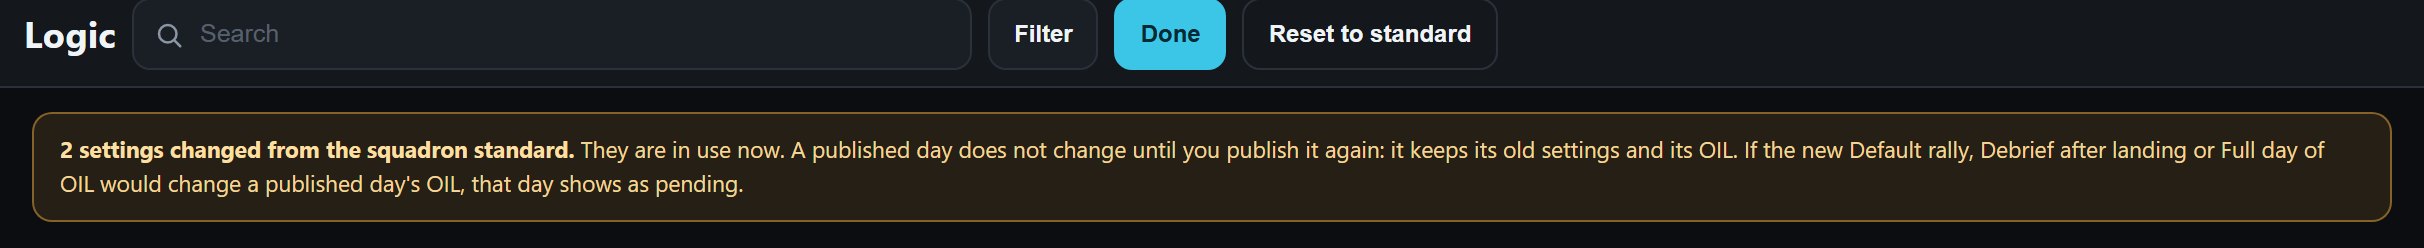
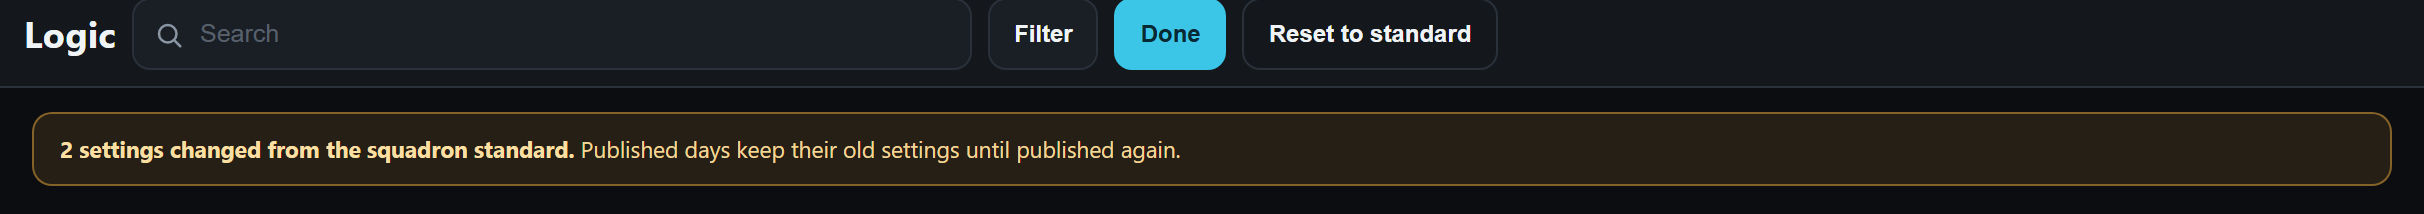
D2066: earned OIL's own store stays at the database step; D2067: the Logic note cut to one sentence, redrawn and put to him ([WARN-WORDS-STANDALONE])

diff --git a/raptor-port/docs/mock/2026-11-15-warn-words/page.html b/raptor-port/docs/mock/2026-11-15-warn-words/page.html
@@ -148,13 +148,13 @@ td.old{color:var(--muted)}
 <section id="logic">
 <h2>The Logic page's note under the changed-settings strip</h2>
 <p class="note">Same meaning, plainer order: first that a published day does not change until you publish it again, then when it shows as pending.</p>
-<div class="pair phone"><figure class="shot"><figcaption><span class="chip c-today">Today</span> <span class="kind">the real app</span></figcaption><a class="zoom" href="c-logic-today-phone.png"><img src="c-logic-today-phone.png" width="1206" height="528" style="max-width:min(100%, 402px)" alt="Today — the real app" loading="lazy"></a></figure><figure class="shot"><figcaption><span class="chip c-new">Proposed</span> <span class="kind">drawn on the real page</span></figcaption><a class="zoom" href="c-logic-proposed-phone.png"><img src="c-logic-proposed-phone.png" width="1206" height="528" style="max-width:min(100%, 402px)" alt="Proposed — drawn on the real page" loading="lazy"></a></figure></div>
+<div class="pair phone"><figure class="shot"><figcaption><span class="chip c-today">Today</span> <span class="kind">the real app</span></figcaption><a class="zoom" href="c-logic-today-phone.png"><img src="c-logic-today-phone.png" width="1206" height="528" style="max-width:min(100%, 402px)" alt="Today — the real app" loading="lazy"></a></figure><figure class="shot"><figcaption><span class="chip c-new">Proposed</span> <span class="kind">drawn on the real page</span></figcaption><a class="zoom" href="c-logic-proposed-phone.png"><img src="c-logic-proposed-phone.png" width="1206" height="372" style="max-width:min(100%, 402px)" alt="Proposed — drawn on the real page" loading="lazy"></a></figure></div>
 <ol class="words" style="list-style:none;padding:0;margin:0">
 <li class="w"><p class="t"><span class="k">Today</span> <b>2 settings changed from the squadron standard.</b> The schedule is checked against them now. A published day keeps the settings it was published under, and the OIL they gave it, until it is published again. If a change to Default rally, Debrief after landing or Full day of OIL would change that OIL, the day reads pending.</p>
 <p class="p"><span class="k">Proposed</span> <b>2 settings changed from the squadron standard.</b> They are in use now. A published day does not change until you publish it again: it keeps its old settings and its OIL. If the new Default rally, Debrief after landing or Full day of OIL would change a published day's OIL, that day shows as pending.</p></li>
 </ol>
 <p class="note">The two sentences that follow it where they apply are left whole: "A changed late cut-off moves the LATE marks at once, on published days too." and "Only an admin can change them."</p>
-<details class="desk"><summary>The same strip on a desktop</summary><div class="pair desktop"><figure class="shot"><figcaption><span class="chip c-today">Today</span> <span class="kind">the real app</span></figcaption><a class="zoom" href="c-logic-today-desktop.png"><img src="c-logic-today-desktop.png" width="2424" height="248" style="max-width:min(100%, 1000px)" alt="Today — the real app" loading="lazy"></a></figure><figure class="shot"><figcaption><span class="chip c-new">Proposed</span> <span class="kind">drawn</span></figcaption><a class="zoom" href="c-logic-proposed-desktop.png"><img src="c-logic-proposed-desktop.png" width="2424" height="248" style="max-width:min(100%, 1000px)" alt="Proposed — drawn" loading="lazy"></a></figure></div></details>
+<details class="desk"><summary>The same strip on a desktop</summary><div class="pair desktop"><figure class="shot"><figcaption><span class="chip c-today">Today</span> <span class="kind">the real app</span></figcaption><a class="zoom" href="c-logic-today-desktop.png"><img src="c-logic-today-desktop.png" width="2424" height="248" style="max-width:min(100%, 1000px)" alt="Today — the real app" loading="lazy"></a></figure><figure class="shot"><figcaption><span class="chip c-new">Proposed</span> <span class="kind">drawn</span></figcaption><a class="zoom" href="c-logic-proposed-desktop.png"><img src="c-logic-proposed-desktop.png" width="2424" height="214" style="max-width:min(100%, 1000px)" alt="Proposed — drawn" loading="lazy"></a></figure></div></details>
 </section>
 
 <section id="pending">

diff --git a/DECISIONS.md b/DECISIONS.md
@@ -85,9 +85,9 @@ ruling, or an explicit no. **Not** ordinary task instructions ("run the tests", 
 | Tracker | `.claude/rules/decisions/tracker.md` | when a Tracker file is read (its code, docs, scripts, evidence) | D1942, D1935, D1931, D1900, D1860, D1861, D1790, D1791, D1705, D1564, D1538, D1406, D1171, D1170, D1136, D1135, D1132, D1018, D1015, D1014, D1007, D1006, D1005, D1004, D1003, D1002, D992, D989, D988, D987, D986, D985, D984, D983, D982, D981, D980, D979, D924, D922, D899, D801, D566, D564, D560, D474, D464, D462, D463, D377, D376, D375, D374, D373, D372, D371, D370, D158, D157, D134, D132, D131, D130, D129, D128, D127, D126, D124, D123, D122, D121, D120, D64 |
 | People & accounts | `.claude/rules/decisions/people-accounts.md` | when an accounts, sign-in, Admin → Users, Quals, one-door or posting file is read (D390) | D1971, D1709, D1696, D1695, D1694, D1691, D1690, D1658, D1653, D1651, D1547, D1546, D1510, D1108, D1105, D1102, D1101, D1100, D1129, D1128, D1110, D993, D937, D935, D329, D328, D327, D326, D325, D323, D322, D321, D320, D310, D309, D308, D307, D306, D304, D303, D300, D299, D298, D297, D296, D295, D294, D293, D292, D290, D289, D288, D287, D286, D285, D284, D283, D282, D281, D280, D229, D227, D226, D225, D224, D223, D222, D221, D220, D219, D216, D215, D214, D213, D211, D204, D200, D218, D166, D165, D149 |
 | Leave War | `.claude/rules/decisions/leave-war.md` | when a Leave War file is read (its code, docs, e2e, evidence) | D2041, D2037, D2031, D2030, D2025, D2008, D2007, D2006, D1986, D1985, D1984, D1963, D1962, D1961, D1950, D1947, D1871, D1870, D1788, D1789, D1731, D1730, D1729, D1728, D1727, D1726, D1725, D1724, D1723, D1722, D1720, D1711, D1698, D1697, D1692, D1681, D1639, D1634, D1630, D1629, D1584, D1569, D1568, D1565, D1555, D1561, D1553, D1552, D1550, D1549, D1548, D1545, D1544, D1543, D1542, D1541, D1525, D1524, D1521, D1520, D1519, D1517, D1516, D1515, D1514, D1513, D1512, D1511, D1506, D1505, D1504, D1503, D1502, D1501, D1500, D1499, D1498, D1497, D1493, D1492, D1491, D1490, D1489, D1488, D1487, D1486, D1485, D1484, D1483, D1482, D1481, D1480, D1479, D1477, D1476, D1474, D1473, D1472, D1471, D1470, D1469, D1468, D1467, D1466, D1465, D1464, D1463, D1462, D1461, D1460, D1449, D1448, D1447, D1446, D1445, D1444, D1441, D1440, D1439, D1438, D1437, D1435, D1434, D1433, D1432, D1431, D1430, D1429, D1428, D1427, D1423, D1422, D1421, D1420, D1401, D1400, D1399, D1398, D1397, D1395, D1394, D1393, D1392, D1391, D1390, D1389, D1388, D1387, D1382, D1381, D1380, D1379, D1378, D1375, D1371, D1370, D1365, D1364, D1362, D1361, D1360, D1359, D1358, D1357, D1356, D1355, D1354, D1353, D1352, D1351, D1350, D1349, D1347, D1346, D1345, D1344, D1341, D1339, D1334, D1333, D1332, D1331, D1330, D1329, D1328, D1327, D1326, D1323, D1321, D1322, D1320, D1318, D1316, D1315, D1314, D1313, D1312, D1311, D1309, D1308, D1307, D1306, D1302, D1301, D1296, D1295, D1294, D1292, D1291, D1290, D1289, D1288, D1287, D1286, D1285, D1284, D1283, D1282, D1279, D1278, D1277, D1276, D1275, D1274, D1272, D1270, D1269, D1268, D1267, D1266, D1264, D1263, D1259, D1258, D1257, D1256, D1255, D1254, D1253, D1252, D1251, D1249, D1248, D1247, D1246, D1245, D1244, D1243, D1242, D1241, D1240, D1239, D1238, D1236, D1235, D1234, D1233, D1231, D1230, D1229, D1228, D1227, D1226, D1225, D1224, D1223, D1221, D1220, D1219, D1218, D1217, D1216, D1215, D1214, D1213, D1212, D1211, D1210, D1209, D1208, D1205, D1203, D1202, D1201, D1200, D1198, D1197, D1196, D1194, D1193, D1192, D1191, D1190, D1189, D1188, D1187, D1186, D1185, D1184, D1183, D1181, D1180, D1178, D1177, D1176, D1175, D1174, D1173, D1172, D1169, D1168, D1167, D1166, D1164, D1163, D1162, D1160, D1159, D1158, D1157, D1155, D1154, D1153, D1152, D1151, D1150, D1149, D1148, D1147, D1146, D1145, D1144, D1143, D1142, D1141, D1117, D1019, D1016, D1001, D1000, D998, D892, D891, D890, D883, D882, D881, D827, D823, D805, D679, D678, D677, D676, D674, D673, D670, D669, D461, D460, D418, D352, D335, D334, D333, D332, D331, D266, D265, D264, D262, D160, D159 |
-| Scheduler & amendments | `.claude/rules/decisions/scheduler.md` | when a scheduler, board, engine, amendment or storage file is read | D2065, D2064, D2063, D2062, D2061, D2060, D2059, D2058, D2055, D2054, D2053, D2052, D2051, D2050, D2049, D2048, D2047, D2046, D2045, D2044, D2026, D2014, D2009, D2010, D2011, D2012, D2013, D2015, D2016, D2017, D2018, D2019, D2020, D2021, D2022, D2024, D1983, D2005, D2004, D2003, D2002, D2001, D2000, D1999, D1994, D1998, D1997, D1996, D1995, D1993, D1992, D1991, D1990, D1989, D1988, D1944, D1936, D1890, D1800, D1780, D1781, D1782, D1784, D1785, D1786, D1751, D1710, D1699, D1693, D1648, D1647, D1644, D1621, D1620, D1592, D1589, D1588, D1586, D1577, D1573, D1529, D1528, D1527, D1526, D1522, D1442, D1412, D1383, D1107, D1106, D1099, D1098, D1131, D1130, D1121, D1120, D1119, D1118, D1116, D1114, D1113, D1112, D1111, D1109, D1085, D1084, D1083, D1081, D1080, D1048, D1047, D1067, D1066, D1065, D1064, D1063, D1062, D1061, D1060, D1046, D1045, D1044, D1043, D1042, D1041, D1040, D1039, D1038, D1037, D1036, D1035, D1034, D1032, D1031, D1030, D1029, D1028, D1027, D1026, D1021, D1020, D1017, D1013, D1012, D1011, D1010, D1009, D997, D995, D958, D957, D955, D950, D949, D947, D945, D940, D938, D936, D933, D932, D931, D929, D928, D925, D901, D877, D860, D845, D844, D842, D841, D840, D839, D838, D837, D836, D834, D833, D831, D828, D825, D824, D815, D809, D800, D797, D796, D776, D769, D778, D767, D762, D760, D757, D756, D755, D753, D751, D748, D747, D743, D742, D740, D739, D737, D736, D735, D734, D733, D731, D717, D714, D713, D711, D710, D706, D702, D686, D682, D716, D668, D665, D663, D661, D660, D645, D644, D642, D641, D640, D637, D636, D634, D605, D603, D600, D599, D598, D597, D594, D562, D561, D558, D555, D554, D553, D551, D550, D548, D544, D537, D535, D532, D531, D530, D529, D527, D526, D525, D524, D523, D522, D521, D520, D519, D518, D517, D516, D514, D513, D512, D511, D510, D509, D507, D506, D505, D504, D503, D502, D501, D500, D498, D497, D488, D482, D481, D479, D478, D475, D472, D471, D469, D454, D452, D451, D356, D355, D367, D363, D362, D361, D360, D346, D345, D344, D340, D339, D338, D337, D279, D278, D277, D276, D275, D272, D271, D270, D263, D212, D189, D188, D187, D186, D185, D184, D183, D179, D178, D177, D176, D175, D174, D172, D171, D170, D169, D168, D167, D119, D118, D117, D116, D114, D113, D111, D110, D109, D107, D105, D103, D102, D101, D100, D99, D98, D97, D96, D95, D94, D93, D92, D91, D161, D77, D66, D65, D51, D50, D47, D45, D44, D41, D40, D39, D38, D37, D36, D33, D27 |
+| Scheduler & amendments | `.claude/rules/decisions/scheduler.md` | when a scheduler, board, engine, amendment or storage file is read | D2067, D2065, D2064, D2063, D2062, D2061, D2060, D2059, D2058, D2055, D2054, D2053, D2052, D2051, D2050, D2049, D2048, D2047, D2046, D2045, D2044, D2026, D2014, D2009, D2010, D2011, D2012, D2013, D2015, D2016, D2017, D2018, D2019, D2020, D2021, D2022, D2024, D1983, D2005, D2004, D2003, D2002, D2001, D2000, D1999, D1994, D1998, D1997, D1996, D1995, D1993, D1992, D1991, D1990, D1989, D1988, D1944, D1936, D1890, D1800, D1780, D1781, D1782, D1784, D1785, D1786, D1751, D1710, D1699, D1693, D1648, D1647, D1644, D1621, D1620, D1592, D1589, D1588, D1586, D1577, D1573, D1529, D1528, D1527, D1526, D1522, D1442, D1412, D1383, D1107, D1106, D1099, D1098, D1131, D1130, D1121, D1120, D1119, D1118, D1116, D1114, D1113, D1112, D1111, D1109, D1085, D1084, D1083, D1081, D1080, D1048, D1047, D1067, D1066, D1065, D1064, D1063, D1062, D1061, D1060, D1046, D1045, D1044, D1043, D1042, D1041, D1040, D1039, D1038, D1037, D1036, D1035, D1034, D1032, D1031, D1030, D1029, D1028, D1027, D1026, D1021, D1020, D1017, D1013, D1012, D1011, D1010, D1009, D997, D995, D958, D957, D955, D950, D949, D947, D945, D940, D938, D936, D933, D932, D931, D929, D928, D925, D901, D877, D860, D845, D844, D842, D841, D840, D839, D838, D837, D836, D834, D833, D831, D828, D825, D824, D815, D809, D800, D797, D796, D776, D769, D778, D767, D762, D760, D757, D756, D755, D753, D751, D748, D747, D743, D742, D740, D739, D737, D736, D735, D734, D733, D731, D717, D714, D713, D711, D710, D706, D702, D686, D682, D716, D668, D665, D663, D661, D660, D645, D644, D642, D641, D640, D637, D636, D634, D605, D603, D600, D599, D598, D597, D594, D562, D561, D558, D555, D554, D553, D551, D550, D548, D544, D537, D535, D532, D531, D530, D529, D527, D526, D525, D524, D523, D522, D521, D520, D519, D518, D517, D516, D514, D513, D512, D511, D510, D509, D507, D506, D505, D504, D503, D502, D501, D500, D498, D497, D488, D482, D481, D479, D478, D475, D472, D471, D469, D454, D452, D451, D356, D355, D367, D363, D362, D361, D360, D346, D345, D344, D340, D339, D338, D337, D279, D278, D277, D276, D275, D272, D271, D270, D263, D212, D189, D188, D187, D186, D185, D184, D183, D179, D178, D177, D176, D175, D174, D172, D171, D170, D169, D168, D167, D119, D118, D117, D116, D114, D113, D111, D110, D109, D107, D105, D103, D102, D101, D100, D99, D98, D97, D96, D95, D94, D93, D92, D91, D161, D77, D66, D65, D51, D50, D47, D45, D44, D41, D40, D39, D38, D37, D36, D33, D27 |
 | The Inputs pages | `.claude/rules/decisions/inputs.md` | when a file of the Inputs list or calendar, the SANS calendar, the Calendar window, or an input's own window or card is read | D1943, D1843, D1842, D1840, D1841, D1787, D1721, D1719, D1708, D1702, D1624, D1623, D1622, D1585, D1583, D1582, D1581, D1578, D1562, D1560, D1413, D1396, D1386, D1385, D1384, D1377, D1374, D1373, D1372, D1369, D1368, D1367, D1304, D1300, D1298, D1293, D1280, D1179, D1139, D1137, D1125, D1123, D1096, D1095, D1025, D1023, D1022, D999, D996, D977, D968, D967, D965, D963, D961, D960, D959, D953, D952, D948, D927, D920, D919, D917, D916, D910, D909, D908, D900, D897, D893, D879, D861, D854, D851, D849, D848, D795, D792, D786, D777, D773, D771, D770, D768, D763, D732, D729, D728, D727, D725, D724, D723, D722, D721, D720, D719, D712, D709, D707, D705, D704, D701, D698, D697, D696, D695, D694, D693, D692, D691, D689, D688, D687, D685, D684, D683, D681, D675, D671, D664, D659, D658, D656, D655, D653, D652, D651, D650, D649, D648, D647, D646, D639, D638, D635, D633, D632, D631, D630, D629, D628, D627, D626, D622, D621, D620, D619, D618, D617, D581, D577, D576, D572, D570, D569, D547, D364 |
-| OIL | `.claude/rules/decisions/oil.md` | when an OIL, Leave War, placeholder-puck or publishing file is read | D1783, D1579, D1094, D1008, D978, D923, D865, D863, D862, D818, D816, D814, D804, D793, D783, D782, D781, D606, D592, D470, D402, D401, D400, D261, D260, D163, D142, D82, D81, D80, D79, D52, D49, D48, D43, D42, D35, D32, D31, D28, D26, D25, D24, D21, D19, D15, D2, D1 |
+| OIL | `.claude/rules/decisions/oil.md` | when an OIL, Leave War, placeholder-puck or publishing file is read | D2066, D1783, D1579, D1094, D1008, D978, D923, D865, D863, D862, D818, D816, D814, D804, D793, D783, D782, D781, D606, D592, D470, D402, D401, D400, D261, D260, D163, D142, D82, D81, D80, D79, D52, D49, D48, D43, D42, D35, D32, D31, D28, D26, D25, D24, D21, D19, D15, D2, D1 |
 | Screen design | `.claude/rules/decisions/design.md` | when a file of screen work is read (the app's code, the mock-ups, the screen rules, the design guide, the walks' pictures, evidence and browser tests) — D1554 | D2040, D1873, D1901, D1771, D1772, D1792, D1793, D1670, D1669, D1707, D1706, D1704, D1703, D1701, D1700, D1680, D1668, D1667, D1666, D1665, D1664, D1663, D1657, D1656, D1655, D1654, D1652, D1650, D1649, D1646, D1645, D1643, D1642, D1638, D1637, D1636, D1635, D1633, D1632, D1631, D1628, D1627, D1626, D1618, D1617, D1615, D1614, D1611, D1610, D1608, D1607, D1606, D1605, D1591, D1590, D1567, D1523, D1518, D1509, D1138, D1134, D1126, D1127, D1122, D926, D895, D887, D876, D850, D726, D672, D587, D349, D348, D347 |
 | The IT flow guide | `.claude/rules/decisions/it-flow-guide.md` | when a file of the IT flow guide is read (its deck folder, its scripts, its plans) | D403, D417, D416, D415, D414, D413, D412, D411, D410 |
 | Archive | `DECISIONS-ARCHIVE.md` | never — SEARCH it before telling him anything is undecided | D156, D133, D125, D155, D154, D153, D152, D150, D88, D83, D71, D61, D55, D34, D139, D146, D112, D115, D181, D202, D104, D230, D273, D336, D342, D341, D366, D182, D354, D180, D324, D467, D542, D543, D567, D540, D539, D538, D536, D534, D533, D528, D508, D496, D494, D492, D484, D483, D480, D476, D391, D173, D145, D85, D30, D559, D556, D549, D515, D565, D190, D586, D589, D604, D613, D612, D616, D666, D680, D708, D788, D789, D791, D803, D798, D817, D794, D799, D752, D779, D784, D826, D829, D843, D873, D896, D898, D914, D915, D934, D962, D135, D609, D614, D615, D746, D749, D758, D764, D810, D855, D856, D857, D858, D859, D864, D875, D880, D894, D911, D939, D956, D571, D573, D575, D578, D579, D580, D585, D654, D690, D699, D715, D718, D730, D772, D907, D912, D913, D918, D946, D951, D964, D966, D267, D330, D3, D18, D20, D46, D780, D210, D217, D291, D301, D305, D930, D164, D108, D468, D477, D545, D552, D557, D563, D593, D643, D662, D700, D738, D741, D744, D745, D750, D866, D889, D943, D944, D954, D368, D990, D1082, D1092, D365, D1156, D1261, D1260, D1207, D1303, D1324, D1325, D1335, D1336, D1337, D1342, D1338, D1402, D1403, D1366, D1414, D1418, D1419, D1425, D1436, D1262, D1133, D1103, D1507, D1558, D1574, D1575, D1576, D1593, D1609, D1612, D1616, D1661, D1305, D1310, D1718, D1594, D1088, D1748, D450, D351, D1736, D1659, D1566, D1556, D974, D973, D972, D832, D775, D602, D86, D1750, D1660, D191, D1940, D1872, D1945, D1946, D1948, D1795, D1796, D1717, D1747, D1933, D1938, D1572, D1741, D1641, D1939, D591, D1743, D574, D582, D583, D584, D624, D657, D1376, D1140, D1161, D1165, D1182, D1199, D1204, D1206, D1232, D1250, D1265, D1299, D1317, D1319, D1340, D1343, D1348, D1404, D1475, D1559, D1563, D1850, D274, D546, D703, D759, D806, D807, D830, D1115, D1405, D1970, D1974, D1981, D1977, D1972, D2039, D2038 |

diff --git a/.claude/decisions-full/scheduler.md b/.claude/decisions-full/scheduler.md
@@ -8,6 +8,7 @@ change tail. Newest first; each row keeps the date it was recorded.
 
 | # | Date | His ruling, in his words where short enough | What it means | Where it lives now |
 |---|---|---|---|---|
+| D2067 | 15 Nov 26 | *"why are there so many text explaning. and why did u have to explain it and what are the 2 setting changes"* — to chat 82, with a picture of the proposed note under the Logic page's changed-settings strip (four sentences). | **The Logic page's note under the changed-settings strip is too wordy: it is cut to what a scheduler must know.** Redrawn as one short sentence after the count — "Published days keep their old settings until published again." — and put to him with its picture; the sentence on a published day reading pending when an OIL setting would change its OIL is proposed to leave the note, the day itself showing pending and its pending list saying what moved. His to approve; not built. (The two settings in the picture were the picture's own example: Default rally and Debrief after landing, changed only to make the strip show.) | the scheduler page `.claude/rules/decisions/scheduler.md` §Warnings and the rules engine; the proposal `raptor-port/docs/superpowers/specs/2026-11-15-warn-words-standalone.md` §3f; [WARN-WORDS-STANDALONE] |
 | D2065 | 15 Nov 26 | *"AVALON and BB are like SC SPARE. There is a lead time for activation for that person to report to work. if that happens we will manage it internally. But for planning they can be planned for other thing which ive already set with u"* — to chat 82, of the third SC MAIN gap it listed: an SC MAIN shift against an AVALON or BB place in the same hours, or straight after a night on AVALON, raises nothing. | **A man on AVALON or BB may be planned for other things, as a man on SC SPARE may: an AVALON or BB place raises nothing against an SC MAIN shift or any other item — correct as built; leave it.** There is a lead time from activation for him to report to work, and an activation is managed by the squadron itself; nothing is built for it. The checks AVALON and BB already have stay (two AVALON or BB places in the same hours, a man overseas or medically down, the seat and currency checks). The point is not raised with him again. | the scheduler page `.claude/rules/decisions/scheduler.md` §Settled — leave as they are |
 | D2064 | 15 Nov 26 | *"point 2 is behaving correctly"* — to chat 82, of the second SC MAIN gap it listed: with its B box blank an SC MAIN's day starts at its START for crew rest, a typed B (or rally) being used as his report time. | **An SC MAIN's crew rest is measured to its typed B or rally, and to its START where both are blank — correct as built; leave it.** No Logic setting for a default SC in-time is added, and the point is not raised with him again. | the scheduler page `.claude/rules/decisions/scheduler.md` §Settled — leave as they are |
 | D2063 | 15 Nov 26 | *"1 a SC MAIN is not considered a flying line until we put a B time. So technically transparent to u, SC MAIN is a standby duty, they are on the ground but can be activated anytime to fly. But it doesnt matter. if that happens we can internally manage it."* — to chat 82, answering the first of four SC MAIN gaps it listed (a flown SC MAIN blocks only its START to END), which is the question D2062 left open. | **An SC MAIN line that flies is left as built: no step before its START and no dekit after its END is added.** SC MAIN is a standby duty — the crew is on the ground and can be activated to fly at any time — and it is not a flying line until a B time is typed; what happens around an activation the squadron manages itself. It answers D2062's open question; nothing to build. The other three gaps told to him the same evening (a blank B counting from START, SC MAIN against an AVALON or BB place, no debrief after a flown SC MAIN) are not answered by this. | the scheduler page `.claude/rules/decisions/scheduler.md` §Warnings and the rules engine; the proposal `raptor-port/docs/superpowers/specs/2026-11-15-warn-words-standalone.md` §3d; [WARN-WORDS-STANDALONE] |

diff --git a/HANDOFF.md b/HANDOFF.md
@@ -38,10 +38,11 @@ the later merge keeps both (D78).
 - **D2063 (15 Nov 26, about 23:55):** a flown SC MAIN is left as built, START to END only — SC MAIN is a standby duty on the ground, not a flying line until a B time is typed, and the squadron manages an activation itself; it closes D2062's question and gap 1 above. Gaps 2 to 4 above are still his to answer (2: told to him that a typed B IS used for crew rest, only a blank one falls back to START — asked whether SC crews report before START).
 - **D2064 (15 Nov 26, about 23:58):** gap 2 is correct as built — an SC MAIN's crew rest goes to its typed B or rally, to START where blank; no default SC in-time. Still his to answer: gaps 3 (SC MAIN against an AVALON or BB place, or straight after a night on AVALON, raises nothing) and 4 (no debrief after a flown SC MAIN, his D1045).
 - **D2065 (16 Nov 26, just after midnight):** gap 3 is correct as built — AVALON and BB are like SC SPARE, a man on them may be planned for other things, an activation managed by the squadron itself. All four SC MAIN gaps are now closed, nothing to build: 1 by D2063, 2 by D2064, 3 by D2065, 4 by his earlier D1045 (not asked again).
+- **D2066 (the OIL page) and D2067 (16 Nov 26, about 00:20):** earned OIL's own store by person and date stays at the database step ([DB-OIL-OWN-TABLE]) — the "No Leave War period…" line stays, reworded only. The Logic note was too wordy for him: redrawn as one sentence, "Published days keep their old settings until published again." (the proposal's §3f; the page republished, version 4) — PUT TO HIM: is the short note right, and may the sentence about a published day showing as pending leave it.
 - **Next:** his answers to questions 2–4. Then, on his approval of the words: bring `main` in (D2057's row is on `main` through pull request 782 once that has merged — this branch does not have it yet), record his answers as rulings, and build — the words (the engine's warning texts, the checks' names if question 3 is yes, the Logic note, the pending list's line), then D2046 (the assumed landing, a Logic setting starting at 60 minutes), D2053 (Insights and the long day) and D2055 (a standby shift with no END); red-first, the robustness doctrine, a FULL-sized check (OIL is touched), reads by Astra and a fresh, blind Opus reader; the build's notes are the proposal's §7 and §3b (hides keyed on a clash's two items — D2001; the parity test; the other places that print the same sentences). A fresh chat is the right place for the build: this one is about 81% full.
 - **Questions waiting for him (on the page, each with its pictures):** (1) a flight in a clash shows T/O only or T/O and landing — recommended both; (2) "Tight turning" (tomorrow's crew rest short at the usual report) renamed "Tight crew rest" — recommended yes; (3) the checks' short names follow the new labels ("Conflict — two events at once" → "Clash", the table in §3b) — recommended yes; (4) the crew-rest line keeps his order of 22 Aug 26 with "needs 12h" added — recommended yes.
 - **Branch:** `claude/warn-words-standalone`, from `main` at `4e14f7a27`; no pull request yet (opened when the build starts).
-- **Rulings:** D2057, D2058, D2059, D2060, D2061, D2062, D2063, D2064, D2065 · **Walk:** none yet (nothing built) · **Reads owed:** none · **Next chat number:** 83 (D1744)
+- **Rulings:** D2057, D2058, D2059, D2060, D2061, D2062, D2063, D2064, D2065, D2066 (OIL), D2067 · **Walk:** none yet (nothing built) · **Reads owed:** none · **Next chat number:** 83 (D1744)
 <!-- /now -->
 <!-- now:claude/rules-check-batch2 -->
 ### CHAT 81 — THE NIGHT OF 15 Nov 26 (his `/overnight 12`, reply "Low go" at 01:41; until about 13:40, the last hour for the report) — job 1 DONE (the rules check's small batch, FULL check closed); job 2 next — written 15 Nov 26 ~03:10 — verify before use

diff --git a/.claude/decisions-full/oil.md b/.claude/decisions-full/oil.md
@@ -8,6 +8,7 @@ change (DECISIONS.md, the steps for a converted area). Newest first; each row ke
 
 | # | Date | His ruling, in his words where short enough | What it means | Where it lives now |
 |---|---|---|---|---|
+| D2066 | 15 Nov 26 | *"keep it for database step."* — to chat 82, which asked whether moving earned OIL to a store of its own by person and date, free of the Leave War period, stays at the database step or is brought forward; he had asked why the warning "No Leave War period for Jul 26, so no OIL can be earned for this day" still depends on a period. | **Earned OIL's move to its own store by person and date stays at the database step; it is not brought forward.** Until then a weekend or holiday no Leave War period covers earns nothing and its warning line stays, reworded only. | the OIL page `.claude/rules/decisions/oil.md`; [DB-OIL-OWN-TABLE] in `OUTSTANDING.md` |
 | D1783 | 8 Nov 26 | *"All as recommended"* — to the pictures round's page (https://claude.ai/artifact/WYuwD2itLGrt7e2Y1bLReJ), question 4, "A tap on a puck that cannot earn"; recommended A of two (B the grey "Blocked:" note) | **In OIL Earn a tap on a man's puck that cannot earn on its row picks nothing and says why in the app's plain passing note — "Nothing changed for <callsign>." and then the reason, such as "No OIL worked out — this row has no end time." — not in the grey "Blocked:" note.** Every reason takes that shape; "nothing measurable to earn from here" becomes "This row gives him no working hours to count OIL from." The tap targets stay (D26). Changes none: it carries D31 (a seat with nothing to measure says why) and D65 (a tap in OIL Earn selects nothing) to the board. Before answering he asked what B would cost; he was told B alone almost nothing more, B across the mode a picture round, three more places and a wider walk. | `raptor-port/docs/ui-contracts.md` (§The pictures round's answers, 8 Nov 26); the build: `raptor-port/docs/superpowers/plans/2026-11-08-pictures-round-build.md`; filed as [OIL-INERT-TAP-SILENT] |
 | D1579 | 3 Nov 26 | *"file it"* — to the agent's recommendation that earned OIL get its own table by person and date at the database step, after his question *"Shouldnt OIL be stored on a table in the database. And anything can call that data?"* | **At the database step earned OIL is stored in a table of its own, one row a person and a date, not tied to a Leave War period; the Leave War, the OIL tracker and every other screen read it from there. Until then D1578 stands.** Today (and in the table plan of `raptor-port/docs/data-model.md` §LeaveBid) a credit the published schedule earns is a record of a Leave War period (`warId` required), so a weekend in a year with no period has nowhere to go — the cause of D19's advisory and of D1578's waiting case; a hand-given award is already its own `LeaveLedger` row by person and date, with no period. Filed, not built: the database comes at the end (D473). | `raptor-port/docs/data-model.md` §LeaveBid (a note under the table); filed as [DB-OIL-OWN-TABLE] in the backlog's Database step group |
 | D1094 | 20 Oct 26 | Shown the OIL batch built and checked, with its new words marked as his to keep or change, he answered *"Merge love"*, then *"Merge live"* | **The OIL batch's new words stand as built — the Unpublish warning, done note and armed button's title when an amendment is withdrawn, and the same-time line's "earns nobody any OIL" sentence — and the batch goes live on this "merge live".** The agent's readings, told to him: the Original keeps N2 and N4 (D837) whole; the amendment's done note names the version as N3 does ("credits Original’s OIL"). | `raptor-port/docs/ui-contracts.md` (the Unpublish words — D1094); `raptor-port/docs/engine-rules.md` (the same-time line — D1094); the evidence `raptor-port/docs/handpass/2026-10-20-oil-batch.md`. |

diff --git a/OUTSTANDING.md b/OUTSTANDING.md
@@ -1032,7 +1032,7 @@ Seen by the ALL AVAIL / Event check (`raptor-port/docs/handpass/2026-10-09-all-a
 The list and why each: `raptor-port/docs/superpowers/specs/2026-11-03-data-one-master-check.md` §A, A1 and A4–A11 — A1 Quals ticks homed in QualMark alone (and the table plan's §5 people row corrected: it maps from the top-level flags, not what Quals writes); A4 an input's "landed on the Ground Programme" worked out per day, never stored; A5 holidays and Off days a table of their own by date (D638's two doors stand); A6 a posted-out man read from Person (LeavePersonProfile keeps dates and outcome only); A7 a Tracker student linked to the roster shows Person's callsign live; A8 medical documents in the shared file store; A9 a Ground row's `sourceInputId`; A10 the shared "last period opened" setting dropped or per person; A11 SANS quarter "flown" worked out from published days. And D1589: every who-stamp keeps the person's id beside his name as it was. Earned OIL is its own item, [DB-OIL-OWN-TABLE]. **Place:** the Database step (D473).
 
 ### [DB-OIL-OWN-TABLE] Earned OIL in a table of its own, by person and date (3 Nov 26, his "file it" — D1579)
-**What:** at the database step, a credit the published schedule earns stops being a record of a Leave War period (`raptor-port/docs/data-model.md` §LeaveBid, `warId` required) and becomes a row of its own — person, date, amount, the work it came from — read by the Leave War grid, the OIL tracker, Balances and anything else. **Why (his question):** *"Shouldnt OIL be stored on a table in the database. And anything can call that data?"* — earned OIL is a fact about a man and a day, not about whether a period exists; tied to a period, a weekend in a year with no period has nowhere to go (D19's advisory, D1578's waiting case). A hand-given award is already its own `LeaveLedger` row. **What it changes then:** the OIL pass writes this table; D19's "no OIL can be earned" advisory is no longer needed for OIL (the period offer may stay for the Leave War's own sake — his to rule then); the OIL tracker's derivation reads the new rows. **Place:** the Database step (D473), with [DB-STEP].
+**What:** at the database step, a credit the published schedule earns stops being a record of a Leave War period (`raptor-port/docs/data-model.md` §LeaveBid, `warId` required) and becomes a row of its own — person, date, amount, the work it came from — read by the Leave War grid, the OIL tracker, Balances and anything else. **Why (his question):** *"Shouldnt OIL be stored on a table in the database. And anything can call that data?"* — earned OIL is a fact about a man and a day, not about whether a period exists; tied to a period, a weekend in a year with no period has nowhere to go (D19's advisory, D1578's waiting case). A hand-given award is already its own `LeaveLedger` row. **What it changes then:** the OIL pass writes this table; D19's "no OIL can be earned" advisory is no longer needed for OIL (the period offer may stay for the Leave War's own sake — his to rule then); the OIL tracker's derivation reads the new rows. **Place:** the Database step (D473), with [DB-STEP] — kept there on his word of 15 Nov 26, not brought forward (D2066).
 
 ### [DB-WEEK-AHEAD] Fetch the neighbouring weeks ahead, so a cross never waits on the network (3 Nov 26, his question)
 **His question (3 Nov 26):** *"so with the database, the scroll between every day including next week will have no delay? Just

diff --git a/.claude/rules/decisions/scheduler.md b/.claude/rules/decisions/scheduler.md
@@ -108,6 +108,7 @@ His words, the agent's readings (never stated here as his rule) and the history 
 - A clash line between a flight and another item shows the end of the flight that causes the clash — its step time where the item falls in the step before take-off, its dekit time where it falls after landing ("Clash: RU (step 12:00, T/O 13:00) & BRIEFING 12:40–13:00") — both worked from the Logic page's step and dekit settings; not built — [WARN-WORDS-STANDALONE] [D2058].
 - From his step to his dekit a man on a flight can have nothing else: anything else in those hours shows as a clash, as built for ground and programme items, sims, duty posts and requests; two flights back to back stay the amber tight turn, since a hot-pit refuel lands, refuels fast and takes off again — [WARN-WORDS-STANDALONE] [D2059, D2060].
 - SC SPARE, AVALON and BB lines are not affected by the step-to-dekit rule, no step or dekit added — their crews may do other things on standby and have an hour from activation to fly, nothing built for that; an SC MAIN line that flies is left as built too, START to END only: a standby duty on the ground, not a flying line until a B time is typed, an activation managed by the squadron itself — [WARN-WORDS-STANDALONE] [D2061, D2062, D2063].
+- The Logic page's note under the changed-settings strip is too wordy as proposed: cut to one short sentence after the count, "Published days keep their old settings until published again.", put to him with its picture; not built — [WARN-WORDS-STANDALONE] [D2067].
 - The rewording is Fable's, his call, in chat 82, the new words drawn and put to him first: chat 81's first proposals are not approved, its shortened five ("Clash: RU (T/O 13:00) & BRIEFING 12:40–13:00" and the like) are his liked suggestions — [WARN-WORDS-STANDALONE] [D2049, D2051].
 - A flight with no landing typed is assumed to land a set flight length after take-off — a Logic setting, starting at 60 minutes — and every check that reads the landing uses it, the warning saying "assumed it landed 13:00 (take-off + 1h)"; not built — [WARN-WORDS-STANDALONE] [D2046, D2047].
 - A flight with its take-off typed and no landing counts in Insights' hours and the long-day note up to its assumed landing, no longer nothing; not built — [WARN-WORDS-STANDALONE] [D1936, D2053].

diff --git a/.claude/rules/decisions/oil.md b/.claude/rules/decisions/oil.md
@@ -73,7 +73,7 @@ Loads with any OIL, Leave War, placeholder-puck or publishing file (the `paths:`
 - Every member may see every man's OIL tracker entries, figures and grants, with their reasons, as the app shows today; the database's access table says so [D1008]. A member cannot type his own OIL figure in his person window — a tap on OIL opens the tracker (the Leave War's file) [D1209].
 - An award does not flag a leave day — it says he is owed a day, not where he was; whether it counts him on duty for manning is not ruled: ask him before changing it [D80].
 - A dragged block's delete removes everything in it, awards included — its confirm names each award first, one Undo brings them back; the bid sheet's Clear does the same, naming an award and asking once; a move or a drag leaves awards where they are [D260].
-- At the database step earned OIL is a table of its own, one row a person and a date, not tied to a Leave War period, which the Leave War, the OIL tracker and every other screen read; until then the Inputs file's D1578 stands [D1579].
+- At the database step, not sooner, earned OIL is its own table, a row a person and date, not tied to a Leave War period, read by the Leave War, the OIL tracker and every other screen; until then the Inputs file's D1578 stands [D1579, D2066].
 
 ## How it shows, and OIL Earn
 - The green OIL bar shows only on the events that counted towards a man's day, not on every puck he wears; the ALL AVAIL count chip agrees with it [D1].

diff --git a/raptor-port/docs/superpowers/specs/2026-11-15-warn-words-standalone.md b/raptor-port/docs/superpowers/specs/2026-11-15-warn-words-standalone.md
@@ -383,3 +383,12 @@ does, in place of "SC SPARE (SC AM …)". The SC SPARE clash is raised only agai
 SC desk in the same hours (his rule of 31 Aug and 7 Sep 26); the AVALON and BB one only against another AVALON or BB
 place. Build note: an "<input> + planned: AVALON / BB desk" line with "but tasked" words arises only once that wave
 flies (D1997); the standing-by case uses the "but on … — medically down / overseas" words.
+
+## 3f. The Logic note cut to one sentence (D2067, 15 Nov 26) — "why are there so many text explaning"
+
+§5's four-sentence note is withdrawn. Proposed now, after the bold count: **"Published days keep their old settings
+until published again."** Dropped, put to him: "They are in use now" (the page shows the new values) and the sentence on
+a published day showing as pending when an OIL setting would change its OIL — the day itself shows pending and its
+pending list says what moved (D2054). If he wants the OIL fact kept, it goes under a "How it works" fold, not in the
+strip. The picture's two changed settings were its own example (Default rally 3h → 2h50, Debrief after landing 2h → 1h30),
+changed only so the strip would show. Pictures: `c-logic-proposed-phone.png`, `-desktop.png`.
